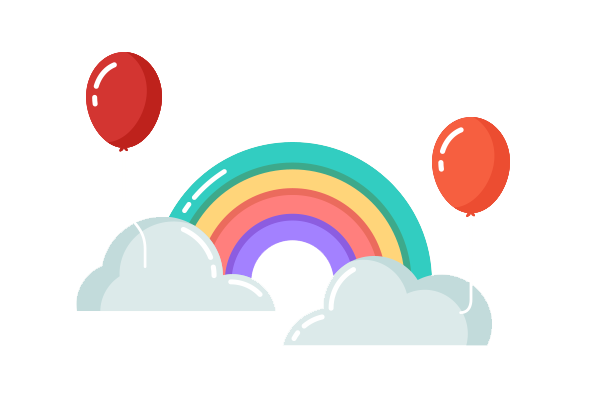
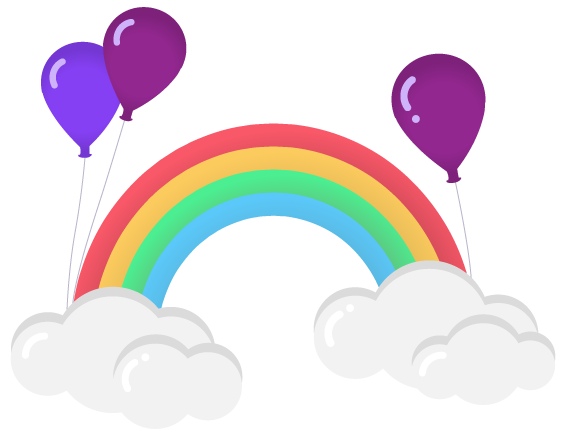
quick fixes before presentation
Summary: fixed onboarding image link, quiz submission confirmation style

Test Plan: submit form, onboard

Reviewers: aleks

Reviewed By: aleks

Subscribers: bigblue, neezus, generic, caseytaco

Projects: #bizworld

Differential Revision: http://phab.calblueprint.org/D599

diff --git a/app/assets/javascripts/components/classrooms/classroom_onboard.jsx b/app/assets/javascripts/components/classrooms/classroom_onboard.jsx
@@ -103,7 +103,7 @@ class ClassroomOnboard extends React.Component {
                             </div>
                             <div className="modal-body">
                                 <div className="onboarding-pic-container">
-                                    <img src="/assets/onboarding.png"/>
+                                    <img src={gon.onboarding_image} />
                                 </div>
                                 <h1>Thanks for joining us!</h1>
                                 <p>You'll be using this page to manage all your students. To take a quick tour of all the features, click "Begin Tour" below. We're glad you've joined the Bizworld family!</p>

diff --git a/app/assets/stylesheets/form.scss b/app/assets/stylesheets/form.scss
@@ -7,6 +7,13 @@ $icon-list: "\f0b1" "\f008" "\f201";
   padding: 0;
 }
 
+.form-submit-message {
+  font-size: $f-size-xl;
+  font-weight: bold;
+  padding: 0 30px;
+  text-align: center;
+}
+
 .title-container {
   background: $blue;
   color: white;

diff --git a/app/controllers/classrooms_controller.rb b/app/controllers/classrooms_controller.rb
@@ -4,5 +4,6 @@ class ClassroomsController < ApplicationController
 
   def show
     @classroom = Classroom.find(params[:id])
+    gon.onboarding_image = ActionController::Base.helpers.image_path("onboarding.png")
   end
 end
